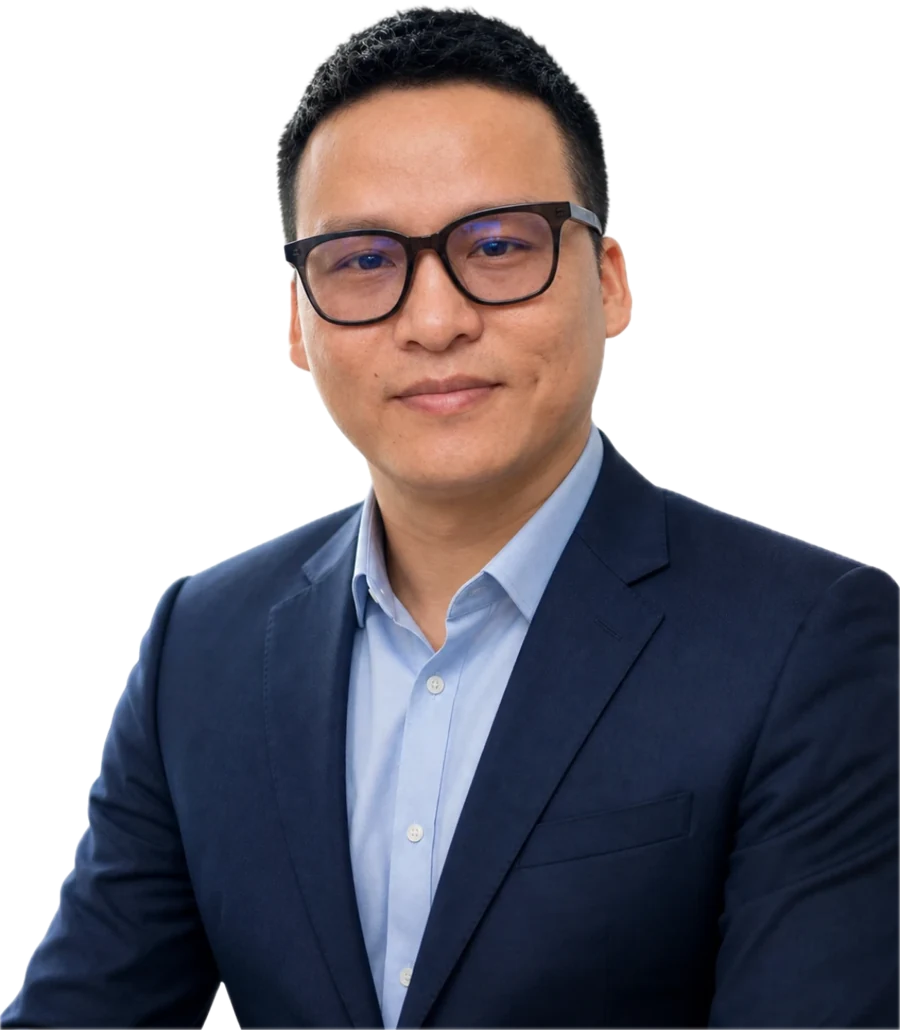
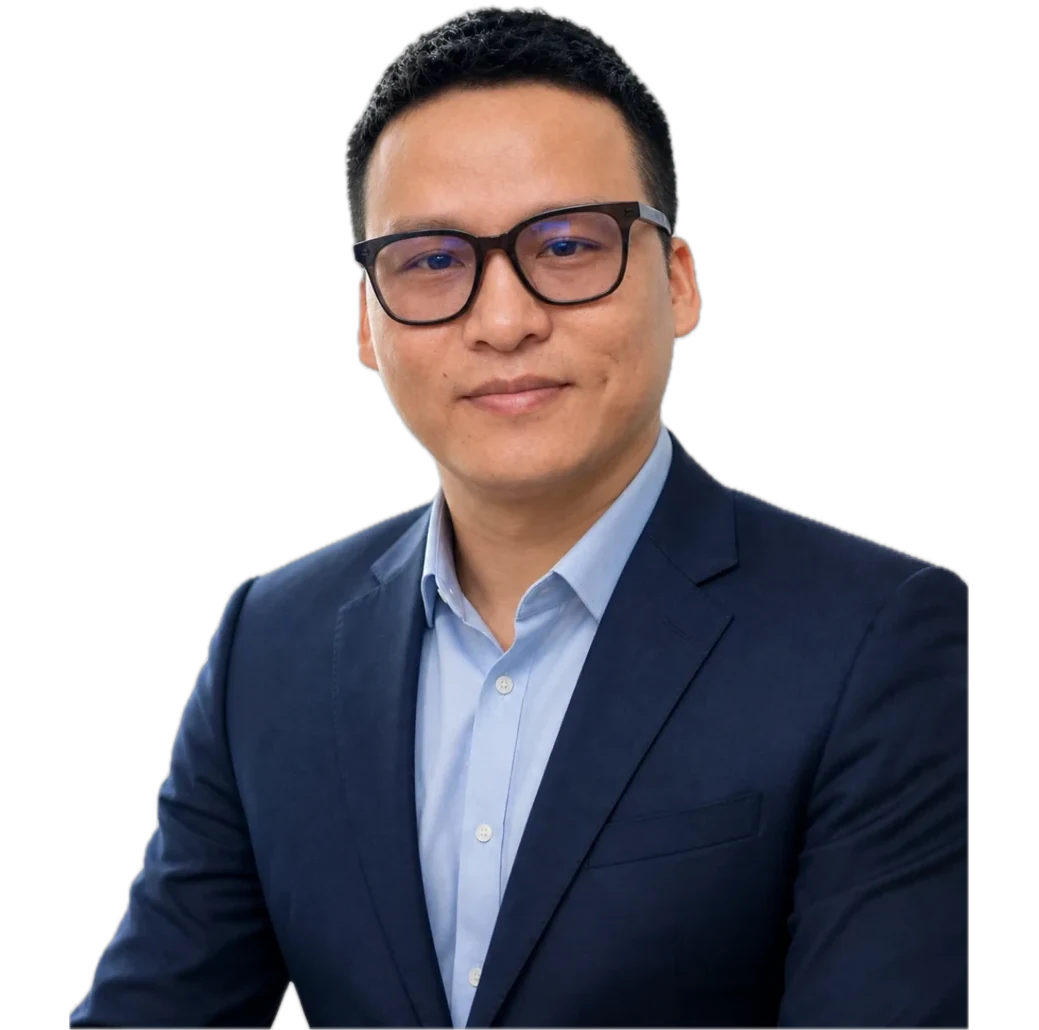
Experts: full landing page for Phan Tấn Tài from his CV; portrait sized like Kate's

diff --git a/src/app/chuyen-gia/[id]/page.tsx b/src/app/chuyen-gia/[id]/page.tsx
@@ -99,6 +99,7 @@ const GROUP_ORDER = [
   "Lean & Năng suất",
   "Đào tạo & Coaching",
   "Bền vững & Số hóa",
+  "An toàn & Số hóa",
   "Khác",
 ];
 
